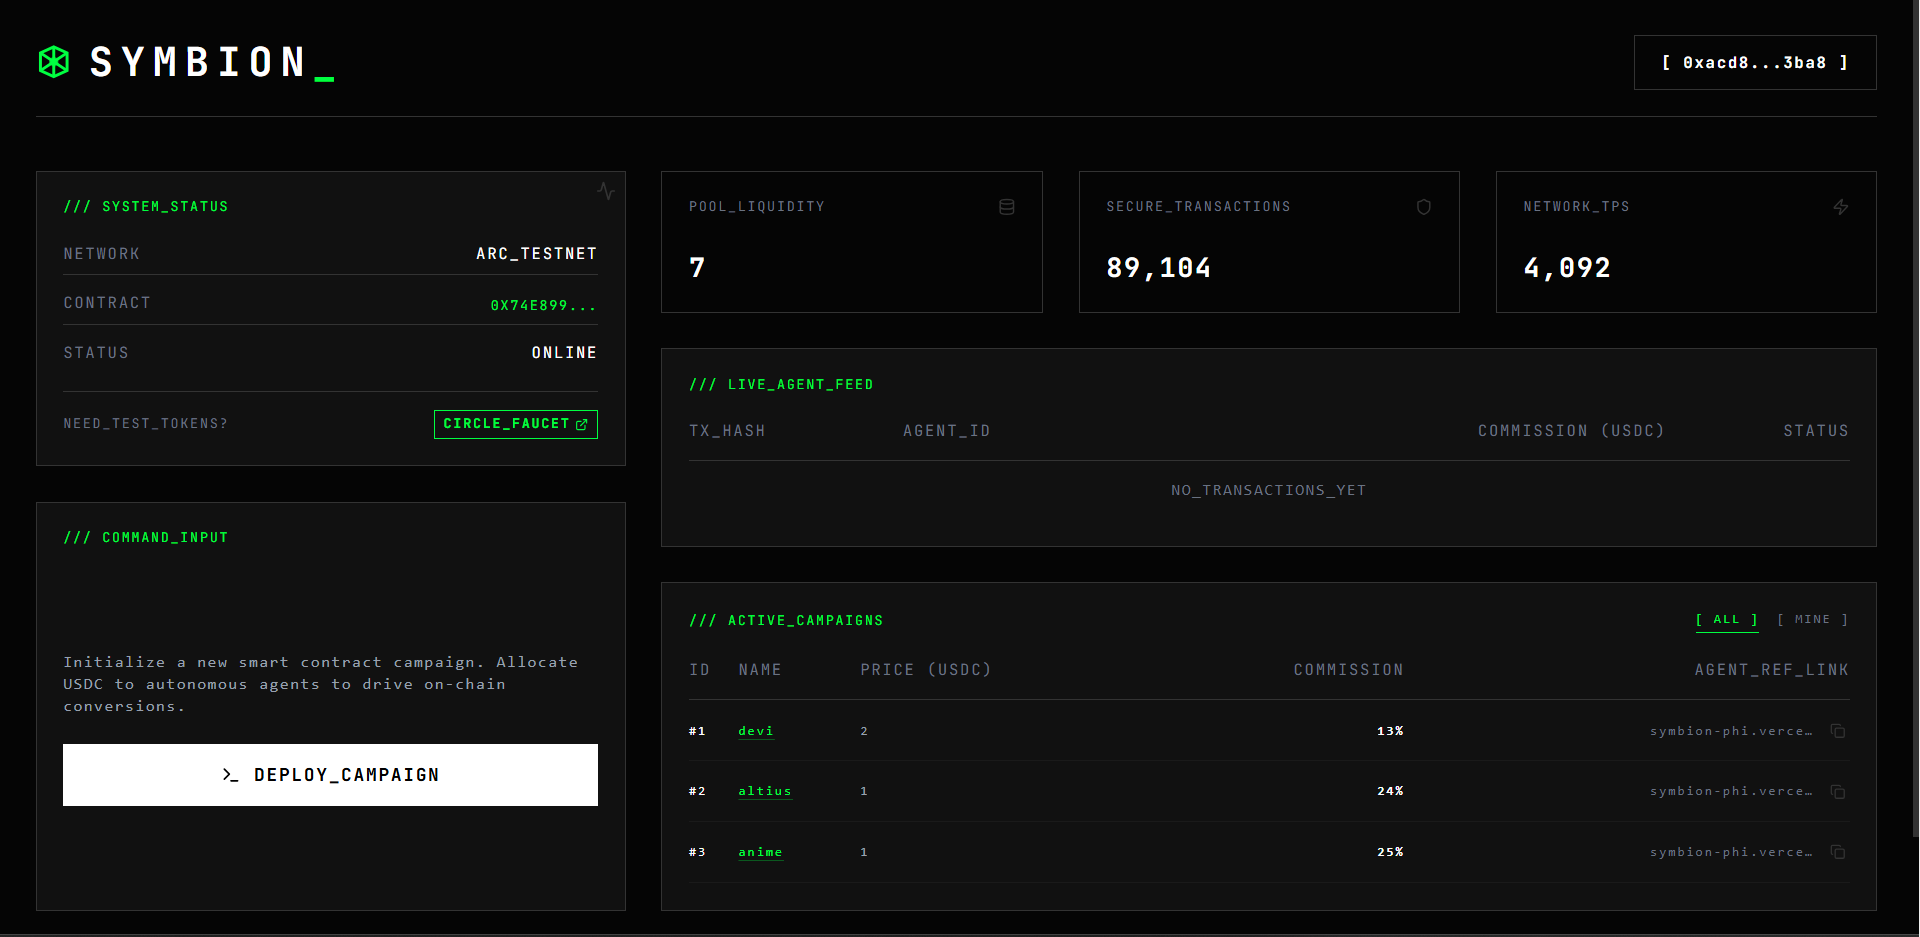
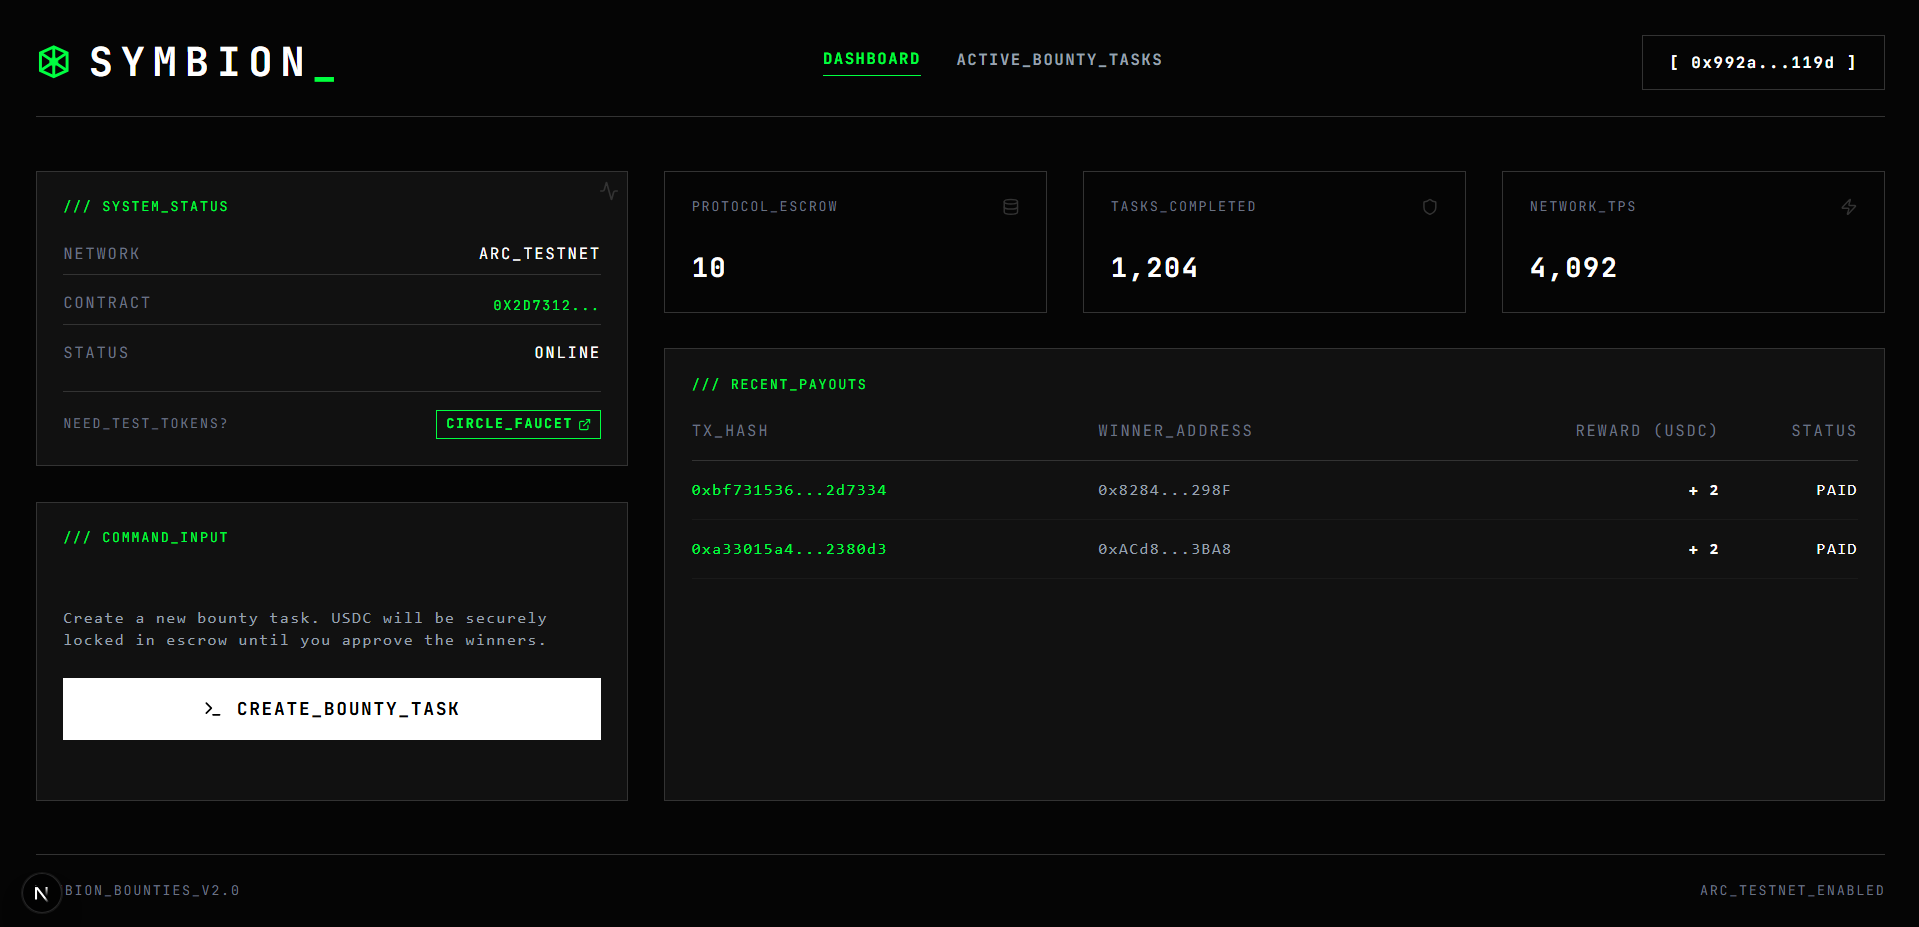
fix: responsive UI updates for mobile screens

diff --git a/frontend/src/app/bounties/page.tsx b/frontend/src/app/bounties/page.tsx
@@ -86,20 +86,20 @@ export default function BountiesPage() {
     <div className="min-h-screen bg-arc-dark text-white p-4 md:p-8 flex flex-col font-sans uppercase tracking-widest relative">
       
       {/* Header */}
-      <header className="flex justify-between items-center border-b border-arc-border pb-6 mb-12 relative z-10">
-        <div className="flex items-center gap-4">
+      <header className="flex flex-col md:flex-row justify-between items-center border-b border-arc-border pb-6 mb-8 md:mb-12 relative z-10 gap-6 md:gap-0">
+        <div className="flex items-center gap-4 w-full md:w-auto justify-center md:justify-start">
           <Logo className="w-8 h-8 text-arc-green" />
           <h1 className="text-2xl md:text-4xl font-bold tracking-[0.2em] text-white">
             SYMBION<span className="text-arc-green">_</span>
           </h1>
         </div>
         
-        <div className="hidden md:flex items-center gap-8 text-sm font-bold tracking-widest">
+        <div className="flex flex-col sm:flex-row items-center gap-4 md:gap-8 text-xs md:text-sm font-bold tracking-widest w-full md:w-auto justify-center">
           <Link href="/" className="text-gray-400 hover:text-white transition-colors pb-1">DASHBOARD</Link>
           <Link href="/bounties" className="text-arc-green border-b border-arc-green pb-1">ACTIVE_BOUNTY_TASKS</Link>
         </div>
 
-        <div className="flex gap-4">
+        <div className="flex gap-4 w-full md:w-auto justify-center md:justify-end">
           <button onClick={walletAddress ? () => setWalletAddress(null) : undefined} className="group relative px-6 py-3 bg-transparent border border-arc-border hover:border-arc-green transition-colors overflow-hidden">
             <span className="relative z-10 text-sm font-bold group-hover:text-black transition-colors">
               {walletAddress ? (
@@ -119,7 +119,7 @@ export default function BountiesPage() {
         <motion.div 
           initial={{ opacity: 0, y: 20 }}
           animate={{ opacity: 1, y: 0 }}
-          className="border border-arc-border bg-arc-panel p-8 flex-grow overflow-x-auto shadow-2xl"
+          className="border border-arc-border bg-arc-panel p-8 flex-grow overflow-hidden shadow-2xl"
         >
           <div className="flex justify-between items-center mb-8 border-b border-arc-border pb-4">
             <h2 className="text-arc-green text-lg font-bold flex items-center gap-3">
@@ -144,46 +144,48 @@ export default function BountiesPage() {
           {loading ? (
             <div className="text-center py-20 text-arc-green animate-pulse">FETCHING_BLOCKCHAIN_DATA...</div>
           ) : (
-            <table className="w-full text-left text-base whitespace-nowrap">
-              <thead className="text-gray-500 border-b border-arc-border">
-                <tr>
-                  <th className="pb-6 font-normal px-4">TASK_ID</th>
-                  <th className="pb-6 font-normal px-4">TASK_NAME</th>
-                  <th className="pb-6 font-normal px-4">CREATOR</th>
-                  <th className="pb-6 font-normal px-4">REWARD (USDC)</th>
-                  <th className="pb-6 font-normal px-4 text-center">WINNERS</th>
-                  <th className="pb-6 font-normal px-4 text-right">ACTION</th>
-                </tr>
-              </thead>
-              <tbody className="font-mono normal-case text-sm">
-                {filteredBounties.length === 0 ? (
-                  <tr><td colSpan={6} className="py-12 text-gray-500 text-center">NO_BOUNTIES_FOUND</td></tr>
-                ) : filteredBounties.map((b, idx) => (
-                  <tr 
-                    key={idx} 
-                    onClick={() => router.push(`/bounty/${b.id}`)}
-                    className="border-b border-arc-border/30 hover:bg-white/5 transition-colors duration-200 cursor-pointer"
-                  >
-                    <td className="py-6 px-4 text-white">#{b.id}</td>
-                    <td className="py-6 px-4 text-arc-green text-base font-bold">
-                      {b.name}
-                    </td>
-                    <td className="py-6 px-4 text-gray-500">{b.creator.slice(0,8)}...</td>
-                    <td className="py-6 px-4 text-gray-300 font-bold">{b.rewardPerWinner} USDC</td>
-                    <td className="py-6 px-4 text-center text-gray-500">
-                      <span className="bg-arc-dark px-3 py-1 border border-arc-border rounded-full">
-                        {b.winnersSelected} / {b.maxWinners}
-                      </span>
-                    </td>
-                    <td className="py-6 px-4 text-right flex items-center justify-end gap-2">
-                      <button className="px-6 py-2 border border-arc-green text-arc-green hover:text-black hover:bg-arc-green transition-colors font-bold pointer-events-none">
-                        {b.creator.toLowerCase() === walletAddress?.toLowerCase() ? "REVIEW_WORK" : "SUBMIT_PROOF"}
-                      </button>
-                    </td>
+            <div className="overflow-x-auto w-full">
+              <table className="w-full text-left text-base whitespace-nowrap">
+                <thead className="text-gray-500 border-b border-arc-border">
+                  <tr>
+                    <th className="pb-6 font-normal px-4">TASK_ID</th>
+                    <th className="pb-6 font-normal px-4">TASK_NAME</th>
+                    <th className="pb-6 font-normal px-4">CREATOR</th>
+                    <th className="pb-6 font-normal px-4">REWARD (USDC)</th>
+                    <th className="pb-6 font-normal px-4 text-center">WINNERS</th>
+                    <th className="pb-6 font-normal px-4 text-right">ACTION</th>
                   </tr>
-                ))}
-              </tbody>
-            </table>
+                </thead>
+                <tbody className="font-mono normal-case text-sm">
+                  {filteredBounties.length === 0 ? (
+                    <tr><td colSpan={6} className="py-12 text-gray-500 text-center">NO_BOUNTIES_FOUND</td></tr>
+                  ) : filteredBounties.map((b, idx) => (
+                    <tr 
+                      key={idx} 
+                      onClick={() => router.push(`/bounty/${b.id}`)}
+                      className="border-b border-arc-border/30 hover:bg-white/5 transition-colors duration-200 cursor-pointer"
+                    >
+                      <td className="py-6 px-4 text-white">#{b.id}</td>
+                      <td className="py-6 px-4 text-arc-green text-base font-bold">
+                        {b.name}
+                      </td>
+                      <td className="py-6 px-4 text-gray-500">{b.creator.slice(0,8)}...</td>
+                      <td className="py-6 px-4 text-gray-300 font-bold">{b.rewardPerWinner} USDC</td>
+                      <td className="py-6 px-4 text-center">
+                        <span className="bg-arc-dark border border-arc-border px-3 py-1 rounded-full text-xs">
+                          {b.winnersSelected} / {b.maxWinners}
+                        </span>
+                      </td>
+                      <td className="py-6 px-4 text-right flex items-center justify-end gap-2">
+                        <button className="px-6 py-2 border border-arc-green text-arc-green hover:text-black hover:bg-arc-green transition-colors font-bold pointer-events-none">
+                          {b.creator.toLowerCase() === walletAddress?.toLowerCase() ? "REVIEW_WORK" : "SUBMIT_PROOF"}
+                        </button>
+                      </td>
+                    </tr>
+                  ))}
+                </tbody>
+              </table>
+            </div>
           )}
         </motion.div>
       </main>

diff --git a/frontend/src/app/bounty/[id]/page.tsx b/frontend/src/app/bounty/[id]/page.tsx
@@ -214,21 +214,21 @@ export default function BountyPage() {
       </AnimatePresence>
 
       {/* Header */}
-      <header className="flex justify-between items-center border-b border-arc-border pb-6 mb-12">
-        <div className="flex items-center gap-4">
+      <header className="flex flex-col md:flex-row justify-between items-center border-b border-arc-border pb-6 mb-8 md:mb-12 relative z-10 gap-6 md:gap-0">
+        <div className="flex items-center gap-4 w-full md:w-auto justify-center md:justify-start">
           <Logo className="w-8 h-8 text-arc-green" />
           <h1 className="text-2xl md:text-4xl font-bold tracking-[0.2em] text-white">
             SYMBION<span className="text-arc-green">_</span>
           </h1>
         </div>
         
-        <div className="hidden md:flex items-center gap-8 text-sm font-bold tracking-widest">
+        <div className="flex flex-col sm:flex-row items-center gap-4 md:gap-8 text-xs md:text-sm font-bold tracking-widest w-full md:w-auto justify-center">
           <Link href="/" className="text-gray-400 hover:text-white transition-colors pb-1">DASHBOARD</Link>
           <Link href="/bounties" className="text-gray-400 hover:text-white transition-colors pb-1">ACTIVE_BOUNTY_TASKS</Link>
         </div>
 
-        <div className="flex gap-4">
-          <button onClick={walletAddress ? () => setWalletAddress(null) : connectWallet} className="group relative px-6 py-3 bg-transparent border border-arc-border hover:border-arc-green transition-colors overflow-hidden">
+        <div className="flex gap-4 w-full md:w-auto justify-center md:justify-end">
+          <button onClick={walletAddress ? disconnectWallet : connectWallet} className="group relative px-6 py-3 bg-transparent border border-arc-border hover:border-arc-green transition-colors overflow-hidden">
             <span className="relative z-10 text-sm font-bold group-hover:text-black transition-colors">
               {walletAddress ? (
                 <>

diff --git a/frontend/src/app/page.tsx b/frontend/src/app/page.tsx
@@ -251,20 +251,20 @@ export default function Home() {
       </AnimatePresence>
 
       {/* Header */}
-      <header className="flex justify-between items-center border-b border-arc-border pb-6 mb-12 relative z-10">
-        <div className="flex items-center gap-4">
+      <header className="flex flex-col md:flex-row justify-between items-center border-b border-arc-border pb-6 mb-8 md:mb-12 relative z-10 gap-6 md:gap-0">
+        <div className="flex items-center gap-4 w-full md:w-auto justify-center md:justify-start">
           <Logo className="w-8 h-8 text-arc-green" />
           <h1 className="text-2xl md:text-4xl font-bold tracking-[0.2em] text-white">
             SYMBION<span className="text-arc-green">_</span>
           </h1>
         </div>
         
-        <div className="hidden md:flex items-center gap-8 text-sm font-bold tracking-widest">
+        <div className="flex flex-col sm:flex-row items-center gap-4 md:gap-8 text-xs md:text-sm font-bold tracking-widest w-full md:w-auto justify-center">
           <Link href="/" className="text-arc-green border-b border-arc-green pb-1">DASHBOARD</Link>
           <Link href="/bounties" className="text-gray-400 hover:text-white transition-colors pb-1">ACTIVE_BOUNTY_TASKS</Link>
         </div>
 
-        <div className="flex gap-4">
+        <div className="flex gap-4 w-full md:w-auto justify-center md:justify-end">
           <button onClick={walletAddress ? disconnectWallet : connectWallet} className="group relative px-6 py-3 bg-transparent border border-arc-border hover:border-arc-green transition-colors overflow-hidden">
             <span className="relative z-10 text-sm font-bold group-hover:text-black transition-colors">
               {walletAddress ? (